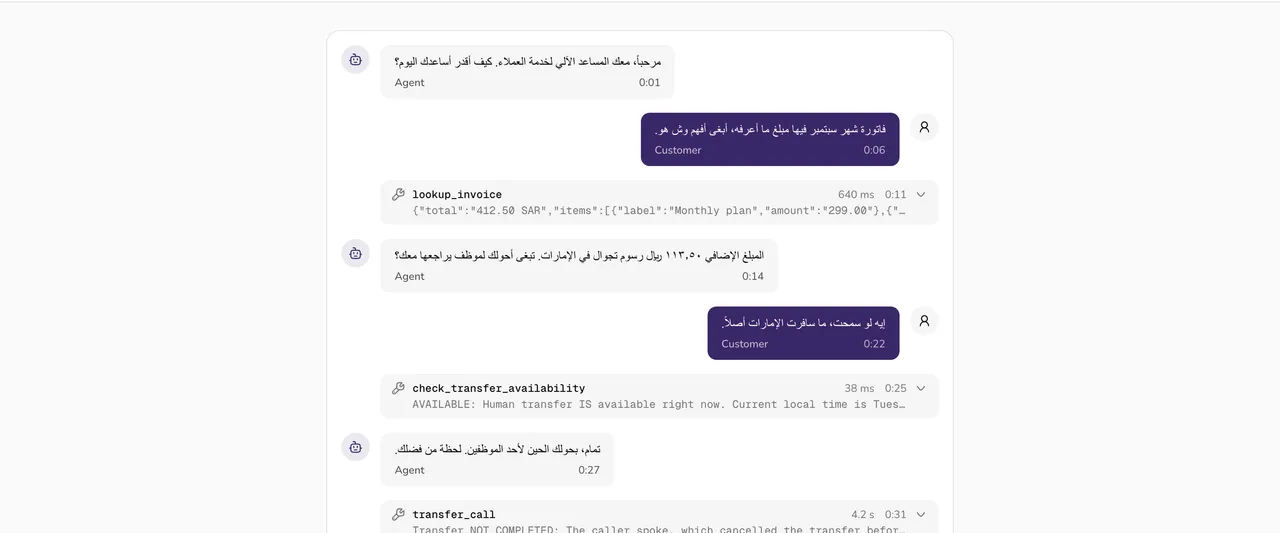
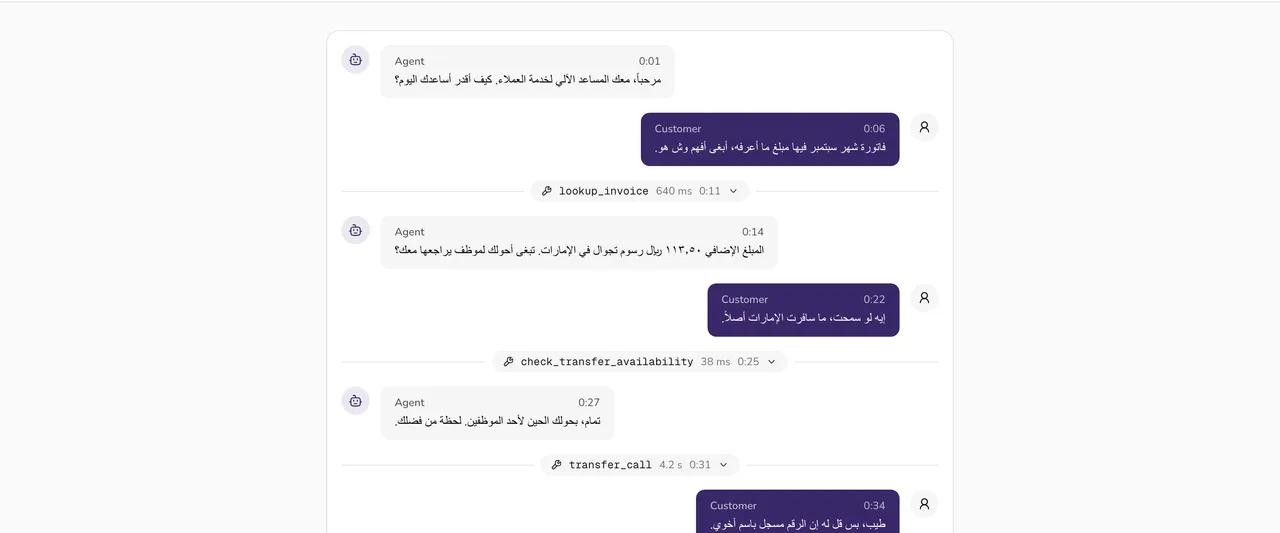
refactor(tool-calls-transcript): draw tools as the call drawer does
Tool calls in the DES-205 transcript now follow the reviewed call drawer
(/conversations-revamp): a short pill centred on a rule between the turns,
instead of a full-width tinted card.

- The pill holds the status icon, tool name, Failed / Completed / No result,
  duration and time into the call. The output preview line is gone from it,
  so a pill never stretches into a bar.
- Clicking the pill opens a full-width block with Arguments and Output, so
  the output is on screen once, only when asked for.
- Speech bubbles put the speaker and time on the first line, as the drawer
  does.
- The handoff's decisions and acceptance criteria describe the pill.

diff --git a/src/components/mockups/tool-calls-transcript/call-transcript.tsx b/src/components/mockups/tool-calls-transcript/call-transcript.tsx
@@ -16,6 +16,7 @@ import {
   ToolFailedIcon,
   ToolIcon,
 } from "@/components/mockups/tool-calls-transcript/icons"
+import { Separator } from "@/components/ui/separator"
 import type {
   TranscriptMessage,
   TranscriptRole,
@@ -25,24 +26,26 @@ import { cn } from "@/lib/utils"
 /**
  * The call transcript with tool calls — DES-205.
  *
- * The speech is drawn the way the reviewed call drawer draws it
+ * Drawn the way the reviewed call drawer draws a transcript
  * (`/conversations-revamp`): a tinted avatar, a bubble with the speaker and the
- * time into the call on its first line. The design system has no transcript
- * pattern of its own yet, so that drawer is the reference.
+ * time into the call on its first line, and a tool as a pill on a rule between
+ * the turns. The design system has no transcript pattern of its own yet, so
+ * that drawer is the reference.
  *
- * A call and its result are one row. They arrive as two items linked by
+ * A call and its result are one pill. They arrive as two items linked by
  * `toolCallId`, often with speech between them, and as two pills the reader
- * had to match them up by eye. The row sits where the call was made and
+ * had to match them up by eye. The pill sits where the call was made and
  * carries its result, so whatever was said while the tool ran reads after it.
  *
  * The UI only knows `isError`, so a failure is the one state it can name from
  * the flag: colour, an icon of its own and the word "Failed", so it cannot be
  * read as anything else, in colour or without it. A tool that returned text —
- * an availability check, an instruction to retry — prints that text and no
- * status word, because "Transfer NOT COMPLETED" comes back without the flag.
- * A tool that returned nothing and no error finished with nothing to add —
- * a transfer that handed off, an end_call — and reads "Completed". That is
- * the only case a check can mark without contradicting what it says.
+ * an availability check, an instruction to retry — keeps the plain wrench and
+ * no status word, because "Transfer NOT COMPLETED" comes back without the
+ * flag; its text is one click away. A tool that returned nothing and no error
+ * finished with nothing to add — a transfer that handed off, an end_call —
+ * and reads "Completed". That is the only case a check can mark without
+ * contradicting what it says.
  */
 
 type Call = Extract<TranscriptMessage, { type: "function_call" }>
@@ -177,35 +180,24 @@ function SpeechTurn({
             : "bg-muted text-foreground",
         )}
       >
-        {/* The call is usually Arabic and the UI English: each line picks its
-            own direction from its first strong character. */}
-        <p className="text-sm" dir="auto">
-          {message.content}
-        </p>
-        {/* What was said leads; who and when sit under it, because the side,
-            the avatar and the colour already say who. */}
+        {/* Who and when on the first line, as the call drawer has it. */}
         <span className="flex items-center gap-4 text-xs opacity-70">
           <span className="font-medium">{speaker.label}</span>
           <span className="ms-auto tabular-nums">
             {formatOffset(message.startAt, startedAt)}
           </span>
         </span>
+        {/* The call is usually Arabic and the UI English: each line picks its
+            own direction from its first strong character. */}
+        <p className="text-sm" dir="auto">
+          {message.content}
+        </p>
       </div>
     </div>
   )
 }
 
 /* -------------------------------------------------------------------- tool */
-
-/**
- * The first line of what the tool returned, or why there is nothing to show.
- * Null when the status word already says it all.
- */
-function summary(call?: Call, result?: Result) {
-  if (!result) return call ? "No result recorded" : null
-  if (result.output.trim() !== "") return result.output.split("\n")[0] ?? null
-  return result.isError ? "No output" : null
-}
 
 /** 640 ms · 4.2 s · 1 min 12 s. Never "0 ms" for a duration nobody measured. */
 function formatDuration(ms: number | null | undefined) {
@@ -258,101 +250,84 @@ function ToolRow({
   const duration = formatDuration(result?.durationMs)
   const calledAt = call?.startAt ?? result?.startAt
   const hasArguments = call !== undefined && !isEmptyArguments(call.arguments)
-  const line = summary(call, result)
 
-  /* Every row with something in it opens, so the chevron means the same on
-     every row. Open, the summary line steps aside for the full output below
-     it, so the text is never on screen twice. Only an empty row stays shut. */
+  /* Every pill with something in it opens, so the chevron means the same on
+     every pill. Only an empty one stays shut. */
   const showOutput = output !== ""
   const canOpen = hasArguments || showOutput
 
-  const header = (
+  const pill = (
     <>
-      <span
-        className={cn(
-          "flex h-4 shrink-0 items-center [&_svg]:size-4",
-          failed
-            ? "text-destructive"
-            : completed
-              ? "text-success"
-              : "text-muted-foreground",
-        )}
-      >
-        {failed ? (
-          <ToolFailedIcon />
-        ) : completed ? (
-          <ToolCompletedIcon />
-        ) : (
-          <ToolIcon />
-        )}
+      {failed ? (
+        <ToolFailedIcon className="size-3 shrink-0" />
+      ) : completed ? (
+        <ToolCompletedIcon className="size-3 shrink-0 text-success" />
+      ) : (
+        <ToolIcon className="size-3 shrink-0" />
+      )}
+      <span className="font-mono" dir="ltr">
+        {toolName}
       </span>
-      <span className="flex min-w-0 flex-1 flex-col gap-0.5">
-        <span className="flex items-center gap-2">
-          <span className="font-mono font-medium text-foreground" dir="ltr">
-            {toolName}
-          </span>
-          {failed ? (
-            <span className="font-medium text-destructive">Failed</span>
-          ) : null}
-          {completed ? (
-            <span className="font-medium text-foreground">Completed</span>
-          ) : null}
-          <span className="ms-auto flex items-center gap-3 text-muted-foreground tabular-nums">
-            {duration ? <span>{duration}</span> : null}
-            {calledAt !== undefined ? (
-              <span>{formatOffset(calledAt, startedAt)}</span>
-            ) : null}
-          </span>
+      {failed ? <span className="font-medium">Failed</span> : null}
+      {completed ? <span className="font-medium">Completed</span> : null}
+      {/* The call went out and nothing came back — not a state the tool
+          reported, so it is the page talking, in the page's quiet voice. */}
+      {result === undefined ? (
+        <span className="text-muted-foreground">No result</span>
+      ) : null}
+      {duration ? (
+        <span className="text-muted-foreground tabular-nums">{duration}</span>
+      ) : null}
+      {calledAt !== undefined ? (
+        <span className="text-muted-foreground tabular-nums">
+          {formatOffset(calledAt, startedAt)}
         </span>
-        {/* Output is English written for the model, capitals for emphasis
-            included. Monospace, like the payload it previews, so it reads as
-            what the model was told and not as the page talking. Pinned
-            left-to-right so an Arabic page does not reorder its punctuation.
-            "No result recorded" and "No output" are the page talking, so they
-            stay in the page's type. */}
-        {line !== null ? (
-          <span
-            className={cn(
-              "truncate text-muted-foreground group-data-[state=open]/tool:hidden",
-              showOutput && "font-mono",
-            )}
-            dir="ltr"
-          >
-            {line}
-          </span>
-        ) : null}
-      </span>
+      ) : null}
+      {canOpen ? (
+        <ExpandIcon className="size-3 transition-transform duration-150 ease-out-cubic group-data-[state=open]/tool:rotate-180 motion-reduce:transition-none" />
+      ) : null}
     </>
   )
 
-  const surface = cn(
-    "ms-11 rounded-lg",
-    failed ? "bg-destructive/10" : "bg-muted",
+  /* A pill on a rule, as the call drawer draws a tool: it sits between the
+     turns as something that happened on the call, not as a fourth speaker.
+     It carries only what fits on one short line; what the tool returned is
+     one click away, below it. */
+  const pillClass = cn(
+    "flex items-center gap-2 rounded-4xl px-3 py-1 text-xs",
+    failed
+      ? "bg-destructive/10 text-destructive"
+      : "bg-secondary text-secondary-foreground",
   )
 
   if (!canOpen) {
     return (
-      <div className={surface}>
-        <div className="flex items-start gap-2 px-3 py-2 text-xs">
-          {header}
-          {/* Holds the chevron's column so every row's numbers line up. */}
-          <span className="size-4 shrink-0" />
-        </div>
+      <div className="flex items-center gap-2">
+        <Separator className="flex-1" />
+        <div className={pillClass}>{pill}</div>
+        <Separator className="flex-1" />
       </div>
     )
   }
 
   return (
-    <Collapsible className={surface}>
-      <CollapsibleTrigger className="group/tool flex w-full items-start gap-2 rounded-lg px-3 py-2 text-start text-xs outline-none focus-visible:ring-3 focus-visible:ring-ring/50">
-        {header}
-        <span className="flex h-4 shrink-0 items-center text-muted-foreground [&_svg]:size-4">
-          <ExpandIcon className="transition-transform duration-150 ease-out-cubic group-data-[state=open]/tool:rotate-180 motion-reduce:transition-none" />
-        </span>
-      </CollapsibleTrigger>
+    <Collapsible className="flex flex-col">
+      <div className="flex items-center gap-2">
+        <Separator className="flex-1" />
+        <CollapsibleTrigger
+          className={cn(
+            pillClass,
+            "group/tool outline-none transition-colors duration-150 ease-out-cubic focus-visible:ring-3 focus-visible:ring-ring/50 motion-reduce:transition-none",
+            failed ? "hover:bg-destructive/20" : "hover:bg-accent",
+          )}
+        >
+          {pill}
+        </CollapsibleTrigger>
+        <Separator className="flex-1" />
+      </div>
 
       <CollapsibleContent className="overflow-hidden data-[state=closed]:animate-collapsible-up data-[state=open]:animate-collapsible-down motion-reduce:animate-none">
-        <div className="flex flex-col gap-3 px-3 pt-1 pb-3">
+        <div className="mt-2 flex flex-col gap-3 rounded-lg bg-muted p-3">
           {hasArguments ? (
             <Payload label="Arguments" value={call.arguments} />
           ) : null}

diff --git a/docs/handoffs/des-205-tool-calls-transcript.md b/docs/handoffs/des-205-tool-calls-transcript.md
@@ -22,58 +22,56 @@ Use the "Call" select in the header to switch between the two sample calls:
 
 | Question in the ticket | Decision |
 |---|---|
-| Pair the call and result, collapse them, or keep two rows | **Collapse them into one row.** The row sits where the call is. The result is matched by `toolCallId` and folded into that row instead of getting a row of its own. Speech that happened while the tool ran comes after the row, which is the order it happened in. |
+| Pair the call and result, collapse them, or keep two rows | **Collapse them into one pill.** The pill sits where the call is, centred on a horizontal rule between the turns, the way the reviewed call drawer (`/conversations-revamp`) draws a tool, so it reads as something that happened on the call rather than as another speaker. The result is matched by `toolCallId` and folded into that pill instead of getting one of its own. Speech that happened while the tool ran comes after the pill, which is the order it happened in. |
 | Is "success" a state | **Only for an empty output.** The UI only knows `isError`, and "Transfer NOT COMPLETED" comes back without it, so a result with text cannot be called a success. A result with no output and no error is a tool that finished with nothing to add (a transfer that handed off, `end_call`), and that one reads **Completed** with a green check. It is the only case where a check cannot contradict the text beside it. |
-| Status for the four result kinds | **Failed** (`isError`): destructive tint, cross icon, and the word "Failed" beside the tool name. **Completed** (no error, empty output): muted background, green check, the word "Completed", and no summary line. **Everything else** (no error, some output): muted background with the wrench icon, and no status word. The output text carries the meaning: "Transfer NOT COMPLETED: …", "AVAILABLE: …". |
-| Long output and arguments | **A truncated first line on the row, with full detail when the row is clicked.** The row expands in place, not in a side panel, so the reader keeps their place in the call. Open, it shows **Arguments** and **Output** verbatim, in monospace on a borderless white block. JSON is pretty-printed, and other text keeps its line breaks. The summary line hides while the row is open, so the output is never on screen twice. Every row with arguments or output opens, so the chevron means the same thing on every row. Only a row with neither stays closed. |
-| Capitals in the output ("AVAILABLE: … IS available") | **Shown as written.** The capitals are in the agent's own strings (`transfer_to_human.py`), as emphasis for the model. Rewriting them in the UI would mean the transcript no longer shows what the model was told. The summary line is set in monospace, like the open payload, so it reads as the model's text and not as the page talking. Dropping the capitals is a change to the agent's copy, outside this ticket. |
-| Duration and timing | The end of the row shows the duration (`640 ms`, `4.2 s`, `1 min 12 s`), then the time into the call when the tool was called (`0:41`), matching the time on every speech bubble. When `durationMs` is null, no duration is shown. Never show `0 ms`. |
-| A tool that never returned because the caller hung up | **No special state.** The agent fills in an `isError` result at call end ("Transfer interrupted — caller disconnected before completion.") with the real start time, so the row reads Failed, shows that text, and shows how long it rang. |
-| RTL | Speech bubbles take `dir="auto"`, so each Arabic line runs right to left. The tool name, arguments and output are pinned `dir="ltr"`, because they are English written for the model. The row uses logical properties only (`ms-`, `ps-`, `text-start`). |
-| Light and dark | Tokens only (`bg-muted`, `bg-destructive/10`, `text-destructive`, `text-muted-foreground`), so the platform's `.dark` block covers it. The design lab renders light only, so dark has **not been checked visually** here. Check it in the platform. |
+| Status for the four result kinds | **Failed** (`isError`): destructive-tinted pill, cross icon, and the word "Failed" beside the tool name. **Completed** (no error, empty output): secondary pill, green check, and the word "Completed". **Everything else** (no error, some output): secondary pill with the wrench icon, and no status word. The output text carries the meaning ("Transfer NOT COMPLETED: …", "AVAILABLE: …"), one click away. **No result** (a call whose output never arrived): secondary pill with the words "No result" in muted text. |
+| Long output and arguments | **Nothing of the output on the pill; all of it when the pill is clicked.** The pill holds one short line (icon, tool name, status, timing) like the call drawer's, so it never stretches into a bar. Clicking opens a full-width muted block under the rule, in place rather than in a side panel, so the reader keeps their place in the call. The block shows **Arguments** and **Output** verbatim, in monospace on a borderless white block. JSON is pretty-printed, and other text keeps its line breaks. The output is shown once, in that block. Every pill with arguments or output opens, so the chevron means the same thing on every pill. Only a pill with neither stays closed. |
+| Capitals in the output ("AVAILABLE: … IS available") | **Shown as written.** The capitals are in the agent's own strings (`transfer_to_human.py`), as emphasis for the model. Rewriting them in the UI would mean the transcript no longer shows what the model was told. The output appears only in the open block, in monospace, so it reads as the model's text and not as the page talking. Dropping the capitals is a change to the agent's copy, outside this ticket. |
+| Duration and timing | The end of the pill shows the duration (`640 ms`, `4.2 s`, `1 min 12 s`), then the time into the call when the tool was called (`0:41`), matching the time on every speech bubble. When `durationMs` is null, no duration is shown. Never show `0 ms`. |
+| A tool that never returned because the caller hung up | **No special state.** The agent fills in an `isError` result at call end ("Transfer interrupted — caller disconnected before completion.") with the real start time, so the pill reads Failed and shows how long it rang, and opening it shows that text. |
+| RTL | Speech bubbles take `dir="auto"`, so each Arabic line runs right to left. The tool name, arguments and output are pinned `dir="ltr"`, because they are English written for the model. The pill uses logical properties only (`ms-`, `ps-`, `text-start`). |
+| Light and dark | Tokens only (`bg-secondary`, `bg-muted`, `bg-destructive/10`, `text-destructive`, `text-muted-foreground`), so the platform's `.dark` block covers it. The design lab renders light only, so dark has **not been checked visually** here. Check it in the platform. |
 
 ## Acceptance criteria (for the Telephony ticket)
 
 1. A `function_call` and the `function_call_output` with the same `toolCallId`
-   render as **one row**, at the call's position. The output item is not
-   rendered on its own.
-2. An output with no matching call still renders as its own row, at its own
+   render as **one pill**, centred on a horizontal rule at the call's
+   position. The output item is not rendered on its own.
+2. An output with no matching call still renders as its own pill, at its own
    position.
-3. A call with no output renders a row whose summary reads "No result
-   recorded".
-4. `isError: true` → destructive tint, cross icon and the word "Failed". An
-   empty failed output reads "No output".
-5. `isError: false` with an empty output → muted row, green check
-   (`text-success`), the word "Completed", and no summary line.
-6. `isError: false` with output → muted row with the wrench icon and no status
-   word. A green check never appears on a row that has output text.
-7. Collapsed, the row shows the tool name (monospace), the first line of the
-   output in monospace truncated to one line, and at the end the duration and
-   the time into the call (`m:ss` from call start). The output is shown as the
-   agent wrote it, capitals included.
-8. Clicking the row expands it in place, showing Arguments and Output in
-   monospace on a borderless `bg-background` block (max height 256px, then
-   it scrolls). JSON is pretty-printed; other text keeps its line breaks.
-   `{}` or empty arguments leave the Arguments block out, and an empty output
-   leaves the Output block out. A row with neither has no chevron and does
+3. A call with no output renders a pill reading "No result" in muted text.
+4. `isError: true` → destructive-tinted pill, cross icon and the word
+   "Failed".
+5. `isError: false` with an empty output → secondary pill, green check
+   (`text-success`) and the word "Completed".
+6. `isError: false` with output → secondary pill with the wrench icon and no
+   status word. A green check never appears on a pill that has output text.
+7. Collapsed, the pill shows the status icon, the tool name (monospace), the
+   status word if any, the duration and the time into the call (`m:ss` from
+   call start), then the chevron. No output text on the pill.
+8. Clicking the pill opens a full-width `bg-muted` block under the rule,
+   showing Arguments and Output in monospace on a borderless `bg-background`
+   block (max height 256px, then it scrolls). The output is shown as the
+   agent wrote it, capitals included. JSON is pretty-printed; other text
+   keeps its line breaks. `{}` or empty arguments leave the Arguments block out, and an
+   empty output leaves the Output block out. A pill with neither has no chevron and does
    not open.
-9. The summary line hides while the row is open, so the output shows once.
-10. Duration format: under 1 s in `ms`, under 1 min in `s` to one decimal,
-    otherwise `N min N s`. If `durationMs` is null, show no duration.
-11. The tool name, arguments and output are `dir="ltr"`, and speech bubbles
+9. Duration format: under 1 s in `ms`, under 1 min in `s` to one decimal,
+   otherwise `N min N s`. If `durationMs` is null, show no duration.
+10. The tool name, arguments and output are `dir="ltr"`, and speech bubbles
     are `dir="auto"`. Check this with an Arabic transcript.
-12. Tool rows are still visible only to users with `PLATFORM_READ`. This does
+11. Tool pills are still visible only to users with `PLATFORM_READ`. This does
     not change.
-13. The row is a keyboard-reachable button with a visible focus ring, and its
+12. The pill is a keyboard-reachable button with a visible focus ring, and its
     expand animation respects reduced motion.
-14. Check in light and dark themes.
+13. Check in light and dark themes.
 
 ## Not in this design
 
 - The copy-JSON button is unchanged. The speech bubbles in the mockup follow
   the reviewed call drawer (`/conversations-revamp`): a tinted avatar and the
   speaker and time on the first line. That is the reference for how the
-  transcript looks around the tool rows, not part of this ticket's scope.
+  transcript looks around the tool pills, not part of this ticket's scope.
 - No new backend fields. A "success" signal for tools that return text would
   need the tool to report one, which is a separate decision for the agent team.
   So would dropping the capitals from the agent's output strings.
